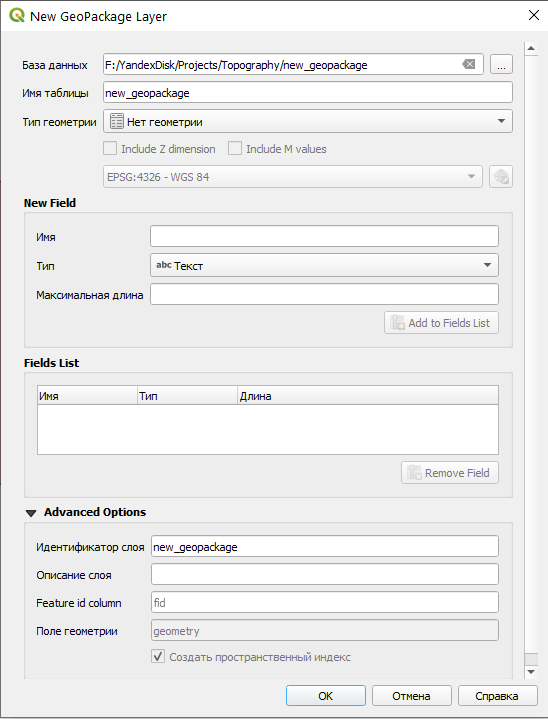
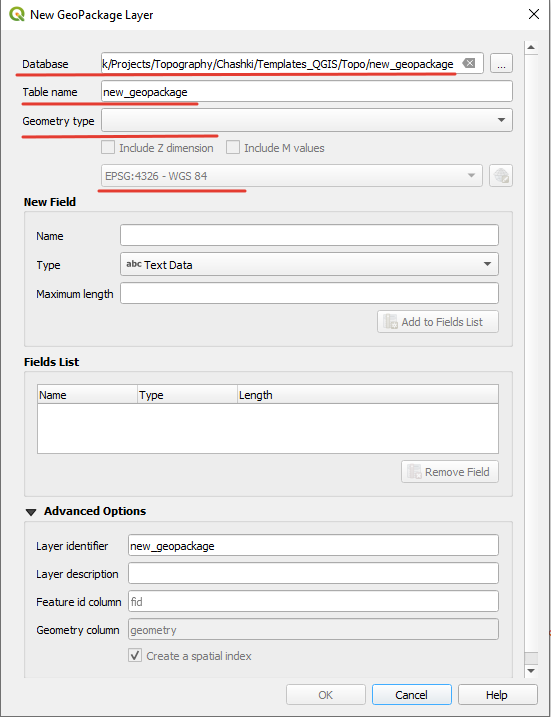
georeference

diff --git a/docs/practice.html b/docs/practice.html
@@ -211,7 +211,7 @@ code span.wa { color: #60a0b0; font-weight: bold; font-style: italic; } /* Warni
 <li class="chapter" data-level="7.3.6" data-path="practice.html"><a href="practice.html#practice-topo-elevation"><i class="fa fa-check"></i><b>7.3.6</b> Обработка высотных данных</a></li>
 <li class="chapter" data-level="7.3.7" data-path="practice.html"><a href="practice.html#practice-topo-layout"><i class="fa fa-check"></i><b>7.3.7</b> Оформление макета</a></li>
 </ul></li>
-<li class="chapter" data-level="7.4" data-path="practice.html"><a href="practice.html#привязка-космического-снимка-по-наземным-опорным-точкам"><i class="fa fa-check"></i><b>7.4</b> Привязка космического снимка по наземным опорным точкам</a></li>
+<li class="chapter" data-level="7.4" data-path="practice.html"><a href="practice.html#practice-georeference"><i class="fa fa-check"></i><b>7.4</b> Привязка космического снимка по наземным опорным точкам</a></li>
 </ul></li>
 <li class="divider"></li>
 <li><a href="https://github.com/rstudio/bookdown" target="blank">Published with bookdown</a></li>
@@ -235,7 +235,7 @@ code span.wa { color: #60a0b0; font-weight: bold; font-style: italic; } /* Warni
             <section class="normal" id="section-">
 <div id="practice" class="section level1">
 <h1><span class="header-section-number">Справка 7</span> Использование QGIS во время полевой топографической практики</h1>
-<p>В этой справке вы найдёте информацию об основных технических приёмах работе в ГИС-пакете QGIS на учебной топографической практике. Для универсализации терминов, названий функций и элементов интерфейса в справке используется англоязычная локализация интерфейса. О том, как менять язык программы, вы можете узнать в <a href="https://iowq750.github.io/Topography/#global" target="_blank">начальном разделе</a></p>
+<p>В этой справке вы найдёте информацию об основных технических приёмах работе в ГИС-пакете QGIS на учебной топографической практике. Для универсализации терминов, названий функций и элементов интерфейса в справке используется англоязычный пользовательский интерфейс. О том, как менять язык программы, вы можете узнать в <a href="https://iowq750.github.io/Topography/#global" target="_blank">начальном разделе</a>.</p>
 <div id="practice-theod" class="section level2">
 <h2><span class="header-section-number">7.1</span> Создание схемы теодолитного хода</h2>
 <div id="practice-theod-template" class="section level3">
@@ -260,7 +260,7 @@ code span.wa { color: #60a0b0; font-weight: bold; font-style: italic; } /* Warni
 <img src="images/Practice/DB_creation.png" alt="" />
 <p class="caption">Окно создания базы данных</p>
 </div>
-<p>Остальные классы объектов вы можете создать, щелкнув правой кнопкой мыши по уже созданной базе данных и выбрав пункт меню <strong>New Table</strong></p>
+<p>Остальные классы объектов вы можете создать, щёлкнув правой кнопкой мыши по уже созданной базе данных и выбрав пункт меню <strong>New Table</strong>.</p>
 <div class="figure">
 <img src="images/Practice/New_table.png" alt="" />
 <p class="caption">Окно создания базы данных</p>
@@ -269,18 +269,18 @@ code span.wa { color: #60a0b0; font-weight: bold; font-style: italic; } /* Warni
 <div id="practice-theod-draw" class="section level3">
 <h3><span class="header-section-number">7.1.3</span> Черчение хода</h3>
 <p><a href="practice.html#practice-theod">В начало справки ⇡</a></p>
-<p>Для нанесение точек хода необходимо добавить в проект из базы данных точечный класс объектов простым перетаскиванием, либо дважды щёлкнув по ним в Браузере. Для редактирования объектов и добавления новых объектов в класс необходимо войти в режим редактирования. Для этого можно щелкнуть правой кнопкой мыши по слою и выбрать пункт <strong>Режим редактирования</strong> (<strong>Toggle Editing</strong>), либо выделить слой и найти на панели инструментов кнопку <img src="images/Vector/Edit.png" />. Активация режима редактирования откроет некоторые другие кнопки на панелях. Например, для точечного класса объекта появится кнопка <img src="images/Practice/New_points.png" />. Нажав на эту кнопку, вы сможете поставить точку в произвольном месте.</p>
+<p>Для нанесение точек хода необходимо добавить в проект из базы данных точечный класс объектов простым перетаскиванием, либо дважды щёлкнув по ним в Браузере. Для редактирования объектов и добавления новых объектов в класс необходимо войти в режим редактирования. Для этого можно щелкнуть правой кнопкой мыши по слою и выбрать пункт <strong>Режим редактирования</strong> (<strong>Toggle Editing</strong>), либо выделить слой и найти на панели инструментов кнопку <img src="images/Practice/Edit.png" />. Активация режима редактирования откроет некоторые другие кнопки на панелях. Например, для точечного класса объекта появится кнопка <img src="images/Practice/New_points.png" />. Нажав на эту кнопку, вы сможете поставить точку в произвольном месте.</p>
 <p>Чтобы поставить точки по строго заданным (рассчитанным при уравнивании теодолитного хода) координатам необходимо использовать панель <strong>Advanced Digitizing Panel</strong>. Если она не открыта, щёлкните правой кнопкой мыши по пустому месту сверху основного окна QGIS и в выпадающем списке отметьте панель и окно.</p>
 <div class="figure">
 <img src="images/Practice/Advanced_digitizing.png" alt="" />
 <p class="caption">Включение дополнительной панели векторизации</p>
 </div>
-<p>Нажмите на кнопку активации инструментов <img src="images/Practice/Enable_Advanced.png" />. Введите координаты <em>X</em> и <em>Y</em>, закрепляя их замком (или нажатием на <strong>Enter</strong>). Щёлкните левой кнопкой мыши по карте – новая точка установится строго по заданным координатам. Сохраните изменения, нажав на иконку сохранения <img src="images/Vector/Save_edits.png" /> на панели редактирования.</p>
+<p>Нажмите на кнопку активации инструментов <img src="images/Practice/Enable_Advanced.png" />. Введите координаты <em>X</em> и <em>Y</em>, закрепляя их замком (или нажатием на <strong>Enter</strong>). Щёлкните левой кнопкой мыши по карте – новая точка установится строго по заданным координатам. Сохраните изменения, нажав на иконку сохранения <img src="images/Practice/Save_edits.png" /> на панели редактирования.</p>
 <div class="figure">
 <img src="images/Practice/Coordinate_input.gif" alt="" />
 <p class="caption">Создание точки по заданным координатам</p>
 </div>
-<p>Для отрисовки сторон хода нужно зайти в режим редактирования соответствующего слоя. При векторизации объектов часто возникает необходимость пристыковать вершины одного объекта к вершинам другого объекта. Для корректной и комфортной пристыковки нужно включить панель Инструментов прилипания (<strong>snapping</strong>). Кнопка в виде магнита <img src="images/Ref04/Snapping.png" /> активирует прилипание. Остальные кнопки на данной панели позволяют уточнить параметры прилипания, в том числе расстояние, на котором оно начинает действовать. Отрисуйте стороны с включенным режимом прилипания, нажимая на левую кнопку мыши для установки вершин и завершая отрисовку правой кнопкой мыши. Сохраните изменения.</p>
+<p>Для отрисовки сторон хода нужно зайти в режим редактирования соответствующего слоя. При векторизации объектов часто возникает необходимость пристыковать вершины одного объекта к вершинам другого объекта. Для корректной и комфортной пристыковки нужно включить панель Инструментов прилипания (<strong>snapping</strong>). Кнопка в виде магнита <img src="images/Practice/Snapping.png" /> активирует прилипание. Остальные кнопки на данной панели позволяют уточнить параметры прилипания, в том числе расстояние, на котором оно начинает действовать. Отрисуйте стороны с включенным режимом прилипания, нажимая на левую кнопку мыши для установки вершин и завершая отрисовку правой кнопкой мыши. Сохраните изменения.</p>
 <blockquote>
 <p>Обратите внимание, что каждая сторона теодолитного хода должна быть отдельным объектом.</p>
 </blockquote>
@@ -295,7 +295,7 @@ code span.wa { color: #60a0b0; font-weight: bold; font-style: italic; } /* Warni
 <h3><span class="header-section-number">7.1.4</span> Настройка символики и подписей</h3>
 <p><a href="practice.html#practice-theod">В начало справки ⇡</a></p>
 <p>На схеме теодолитного хода следует различать точки самого хода и твёрдые точки, которые служат твёрдым направлением. Разная символика обуславливается разными значениями атрибутов данного класса в базе данных. Открыть атрибутивную таблицу слоя можно, нажав правой кнопкой мыши по нему и выбрав пункт <strong>Open Attribute Table</strong>.</p>
-<p>Для редактирования атрибутов необходимо зайти в режим редактирования с помощью кнопки <img src="images/Vector/Edit.png" />. Для добавления или удаления атрибутивных столбцов также необходимо зайтив в режим редактирования, после чего появятся соответствующие кнопки <img src="images/Practice/New_field.png" /> и <img src="images/Practice/Delete_field.png" />. Для того чтобы закодировать отличия точек хода и твердых точек, нужно создать новое атрибутивное поле и записать соответствующим точкам разные значения. Обратите внимание, что каждая строка в атрибутивной таблице – это, по сути, один объект в классе объектов. Выделять объекты в атрибутивной таблицы можно с помощью нажатия левой кнопки мыши по левому краю строки. Для выбора нескольких строк подряд можно «тянуть» выделение левой кнопкой мыши, либо выделить первый и последний объект с зажатым <strong>SHIFT</strong>. Для выбора нескольких отдельных строк зажмите <strong>CTRL</strong>. Выделяемые в атрибутивной таблице объекты будут подсвечиваться жёлтым цветом на карте. Для приближения к выбранному объекту нажмите на кнопку <strong>Pan map to the selected rows</strong> (<strong>Увеличить карту до выделенных строк</strong>) <img src="images/Practice/Zoom_to_selection.png" />.</p>
+<p>Для редактирования атрибутов необходимо зайти в режим редактирования с помощью кнопки <img src="images/Practice/Edit.png" />. Для добавления или удаления атрибутивных столбцов также необходимо зайтив в режим редактирования, после чего появятся соответствующие кнопки <img src="images/Practice/New_field.png" /> и <img src="images/Practice/Delete_field.png" />. Для того чтобы закодировать отличия точек хода и твердых точек, нужно создать новое атрибутивное поле и записать соответствующим точкам разные значения. Обратите внимание, что каждая строка в атрибутивной таблице – это, по сути, один объект в классе объектов. Выделять объекты в атрибутивной таблицы можно с помощью нажатия левой кнопки мыши по левому краю строки. Для выбора нескольких строк подряд можно «тянуть» выделение левой кнопкой мыши, либо выделить первый и последний объект с зажатым <strong>SHIFT</strong>. Для выбора нескольких отдельных строк зажмите <strong>CTRL</strong>. Выделяемые в атрибутивной таблице объекты будут подсвечиваться жёлтым цветом на карте. Для приближения к выбранному объекту нажмите на кнопку <strong>Pan map to the selected rows</strong> (<strong>Увеличить карту до выделенных строк</strong>) <img src="images/Practice/Zoom_to_selection.png" />.</p>
 <p>Для задания символики зайдите в свойства слоя точек, дважды по нему щёлкнув. Перейдите во вкладку <strong>Symbology</strong> (<strong>Стиль</strong>)</p>
 <div class="figure">
 <img src="images/Practice/Point_Symbology.png" alt="" />
@@ -328,7 +328,7 @@ code span.wa { color: #60a0b0; font-weight: bold; font-style: italic; } /* Warni
 <img src="images/Practice/Grid_settings.png" alt="" />
 <p class="caption">Настройка сетки координат</p>
 </div>
-<p>В свойствах сетки выберите вид сетки – <strong>Cross</strong> (<strong>перекрестие</strong>), укажите шаг сетки, цвет линии – зеленый. В разделе <strong>Frame</strong> выберите <strong>interior ticks</strong> для показа выходов сетки внутрь рамки. Длину выходов установить 3 мм.</p>
+<p>В свойствах сетки выберите вид сетки – <strong>Cross</strong> (<strong>перекрестие</strong>), укажите шаг сетки, цвет линии – зеленый. В разделе <strong>Frame</strong> выберите <strong>interior ticks</strong> для показа выходов сетки внутрь рамки. Длину выходов можно установить 3 мм.</p>
 <p>В разделе <strong>Draw Coordinates</strong> сориентируйте боковые подписи выходов сетки вертикально вдоль рамки.</p>
 <div class="figure">
 <img src="images/Practice/Coordinate_appearance.png" alt="" />
@@ -339,7 +339,7 @@ code span.wa { color: #60a0b0; font-weight: bold; font-style: italic; } /* Warni
 <img src="images/Practice/Borders.png" alt="" />
 <p class="caption">Настройка подписей координат</p>
 </div>
-<p>Для экспорта растрового изображения выберите <strong>Layout – Export as …</strong></p>
+<p>Для экспорта растрового изображения выберите <strong>Layout – Export as …</strong>.</p>
 </div>
 </div>
 <div id="создание-схемы-нивелирного-хода" class="section level2">
@@ -353,7 +353,7 @@ code span.wa { color: #60a0b0; font-weight: bold; font-style: italic; } /* Warni
 <div id="practice-level-DB" class="section level3">
 <h3><span class="header-section-number">7.2.2</span> Работа с базой данных</h3>
 <p>Для схемы нивелирного хода следует создать отдельную базу данных, в которой будет два класса объектов:</p>
-<p>● Стороны хода</p>
+<p>● Стороны хода;</p>
 <p>● Точки хода.</p>
 <p>Как создавать базу данных, можно посмотреть в разделе про <a href="practice.html#practice-theod-DB">теодолитный ход</a>.</p>
 </div>
@@ -423,12 +423,9 @@ code span.wa { color: #60a0b0; font-weight: bold; font-style: italic; } /* Warni
 <img src="images/Practice/Create_gpkg.png" alt="" />
 <p class="caption">Окно создания базы данных Geopackage</p>
 </div>
-<p>В поле <strong>Тип геометрии</strong> укажите соответствующую геометрию объектов (тип локализации на плане). Обратите внимание, что каждый класс объектов поддерживает только один тип геометрии.
-Укажите спроецированную систему координат. Если указать геодезическую систему координат, то велика вероятность, что при векторизации объектов возникнут курьёзные ситуации.
-В разделе <strong>New Field</strong> можно указать имя, типа и длину атрибутивного поля создаваемого класса объектов, но, скорее всего, вам это не пригодится.</p>
-<p>Поскольку мы создаем план не небольшую территорию, позволительно будет создать для каждого вида объекта отдельный класс внутри базы.</p>
-<p>Каждый последующий класс объектов создавайте внутри базы данных. Таким образом вы сформируете единое хранилище для всех картографируемых объектов.</p>
-<p><strong>Сохраните проект.</strong></p>
+<p>В поле <strong>Geometry type</strong> укажите соответствующую геометрию объектов (тип локализации на плане): точки, линии или полигоны. Обратите внимание, что каждый класс объектов поддерживает только один тип геометрии. Укажите спроецированную систему координат. Если указать геодезическую систему координат, например <em>WGS 1984</em>, то велика вероятность, что при векторизации объектов возникнут курьёзные ситуации.
+В разделе <strong>New Field</strong> можно указать имя, типа и длину атрибутивного поля создаваемого класса объектов.</p>
+<p>Поскольку мы создаем план не небольшую территорию, позволительно будет создать для каждого вида объекта отдельный класс внутри базы. Каждый последующий класс объектов создавайте внутри базы данных. Таким образом вы сформируете единое хранилище для всех картографируемых объектов.</p>
 </div>
 <div id="practice-topo-vectorization" class="section level3">
 <h3><span class="header-section-number">7.3.3</span> Векторизация</h3>
@@ -441,12 +438,16 @@ code span.wa { color: #60a0b0; font-weight: bold; font-style: italic; } /* Warni
 </div>
 <p>Курсор в таком режиме может вести себя тремя разными способами:</p>
 <ol style="list-style-type: decimal">
-<li><p>При выделении вершины вы можете изменить её положение</p></li>
-<li><p>При выделении ребра вы можете сдвинуть его вместе со смежными вершинами</p></li>
-<li><p>При нажатии на плюсик в центре ребра добавляется новая вершина</p></li>
+<li><p>При выделении вершины вы можете изменить её положение;</p></li>
+<li><p>При выделении ребра вы можете сдвинуть его вместе со смежными вершинами;</p></li>
+<li><p>При нажатии на плюсик в центре ребра добавляется новая вершина.</p></li>
 </ol>
-<p>Нажатие на клавишу <strong>delete</strong> позволяет удалить вершину.
-При векторизации объектов часто возникает необходимость пристыковать вершины одного объекта к вершинам другого объекта. Для корректной и комфортной пристыковки нужно включить панель Инструменты прилипания (<strong>snapping</strong>). Кнопка в виде магнита <img src="images/Practice/Snapping.png" /> активирует прилипание. Остальные кнопки на данной панели позволяют уточнить параметры прилипания, в том числе расстояние, на котором оно начинает действовать.</p>
+<p>Нажатие на клавишу <strong>delete</strong> позволяет удалить вершину. При векторизации объектов часто возникает необходимость пристыковать вершины одного объекта к вершинам другого объекта. Для корректной и комфортной пристыковки нужно включить панель Инструменты прилипания (<strong>snapping</strong>). Кнопка в виде магнита <img src="images/Practice/Snapping.png" /> активирует прилипание. Остальные кнопки на данной панели позволяют уточнить параметры прилипания, в том числе расстояние, на котором оно начинает действовать.</p>
+<p>Если вам необходимо повторить значительную часть существующего контура при создании нового, то удобнее всего воспользоваться трассировкой (<strong>Tracing</strong>), нажав на кнопку <img src="images/Practice/Tracing.png" /> на панели инструментов прилипания. После этого при ведении на небольшом расстоянии от контура новый контур будет автоматически пристыковываться к существующем.</p>
+<div class="figure">
+<img src="images/Practice/Tracing.gif" alt="" />
+<p class="caption">Пример работы с инструментом трассировки</p>
+</div>
 <p><em>Advanced Digitizing Toolbar</em></p>
 <p>Соответствующую панель вы так же, как и предыдущую, можете найти в выпадающем списке панелей.</p>
 <div class="figure">
@@ -495,7 +496,7 @@ code span.wa { color: #60a0b0; font-weight: bold; font-style: italic; } /* Warni
 <p><a href="practice.html#practice-topo">В начало справки ⇡</a></p>
 <div id="practice-topo-tips_tricks-roads" class="section level4">
 <h4><span class="header-section-number">7.3.5.1</span> Создание площадного объекта дороги</h4>
-<p>Обычно дороги отбиваются по осевой линии, если у них известная и постоянная ширина. Чтобы наиболее эффективно и быстро построить площадной знак дороги, можно воспользоваться одним из инструментов геообработки QGIS, который строит буферные зоны. Для этого щёлкните правой кнопкой мыши по пустому полю верхней панели программы, чтобы увидеть список окон и панелей. Выберите панель <strong>Processing Toolbox Panel</strong>. Это панель со всеми инструментами геообработки. Через поисковую строку панели найдите инструмент <strong>Buffer</strong>. Дважды щёлкните по инструменту, после чего откроется окно.</p>
+<p>Обычно дороги при топографической съёмке отбиваются по осевой линии, если у них известная и постоянная ширина. Чтобы наиболее эффективно и быстро построить площадной знак дороги по таким исходным данным, можно воспользоваться одним из инструментов геообработки QGIS, который строит буферные зоны. Для этого щёлкните правой кнопкой мыши по пустому полю верхней панели программы, чтобы увидеть список окон и панелей. Выберите панель <strong>Processing Toolbox Panel</strong>. Это панель со всеми инструментами геообработки. Через поисковую строку панели найдите инструмент <strong>Buffer</strong>. Дважды щёлкните по инструменту, после чего откроется окно.</p>
 <div class="figure">
 <img src="images/Practice/Buffer.png" alt="" />
 <p class="caption">Интерфейс инструмента построения буфера</p>
@@ -541,7 +542,7 @@ code span.wa { color: #60a0b0; font-weight: bold; font-style: italic; } /* Warni
 <img src="images/Practice/Contours_Labels.png" alt="" />
 <p class="caption">Настройка подписей горизонталей</p>
 </div>
-<p>В разделе <strong>Text</strong> можно указать гарнитуру, кегль. В разделе <strong>Buffer</strong> можно включить т.н. гало, т. е. обводку вокруг символов, которая закрывает собой горизонтали. В разделе <strong>Placement</strong> в свойстве <strong>Mode</strong> указывается <strong>Curved</strong>, т. е. подпись по кривой, а также включается размещение <strong>on line</strong>, чтобы подпись была на горизонтали.</p>
+<p>В разделе <strong>Text</strong> можно указать гарнитуру, кегль. В разделе <strong>Buffer</strong> можно включить т.н. гало, т. е. обводку вокруг символов, которая закрывает собой горизонтали. В разделе <strong>Placement</strong> в свойстве <strong>Mode</strong> указывается <strong>Curved</strong>, т. е. подпись по кривой, а также включается размещение <strong>on line</strong>, чтобы подпись лежала на горизонтали.</p>
 </div>
 <div id="practice-topo-layout" class="section level3">
 <h3><span class="header-section-number">7.3.7</span> Оформление макета</h3>
@@ -555,8 +556,37 @@ code span.wa { color: #60a0b0; font-weight: bold; font-style: italic; } /* Warni
 <p>Рамка топографической карты состоит из внутренней тонкой и внешней толстой рамки. Обе рамки можно по отдельности добавить в свойствах элемента.</p>
 </div>
 </div>
-<div id="привязка-космического-снимка-по-наземным-опорным-точкам" class="section level2">
+<div id="practice-georeference" class="section level2">
 <h2><span class="header-section-number">7.4</span> Привязка космического снимка по наземным опорным точкам</h2>
+<p><a href="practice.html#practice">В начало справки ⇡</a></p>
+<p>Добавьте снимок в проект, нажав на кнопку <img src="images/Practice/Open_raster.png" />. Поскольку добавленный снимок на данный момент не привязан, справа от слоя в таблице слоёв вы увидите знак вопроса.</p>
+<blockquote>
+<p>Если вы не видите снимок, то, вероятно, он расположился где-то за пределами вашего экрана. Чтобы увидеть его, нажмите правой кнопкой мыши по слою и выберете <strong>Zoom to Layer</strong> (<strong>Увеличить до слоя</strong>). Обратите внимание на значения координат и масштаб внизу окна. Что они могут означать?</p>
+</blockquote>
+<p>Запустите модуль привязки через меню <strong>Raster – Georeferencer</strong> (<strong>Растр – Привязка растров…</strong>).</p>
+<div class="figure">
+<img src="images/Practice/Georeferencer.png" alt="" />
+<p class="caption">Открытие растрового файла</p>
+</div>
+<blockquote>
+<p>Если вы не видите такого пункта меню, то зайдите в <strong>Plugins – Manage and Install plugins…</strong> (<strong>Установки – Модули и управление модулями</strong>, найдите через поиск и включите соответствующий модуль, поставив галочку (с версии 3.16 этот модуль по умолчанию встроен в QGIS).</p>
+</blockquote>
+<p>Откроется отдельное окно привязки. Нажмите на кнопку <strong>Открыть растр</strong> <img src="images/Practice/Open_raster.png" />, добавьте привязываемый растр. Щелчок левой кнопкой мыши по привязываемому изображению в месте потенциального размещения опорной точки откроет окно, куда будет предложено ввести координаты. При использовании наземных опорных точек, которые добавлены в ваш проект, вы можете нажать на кнопку <strong>From Map Canvas</strong> и выбрать соответственную точку.</p>
+<div class="figure">
+<img src="images/Practice/Enter_Coordinates.png" alt="" />
+<p class="caption">Окно ввода координат</p>
+</div>
+<blockquote>
+<p>Обратите внимание, что оси X и Y в геоинформационном программном обеспечении ориентированы как в математике. Для координаты X вводить номер зоны <strong>не нужно</strong>.</p>
+</blockquote>
+<p>После расстановки точек внизу окна появится таблица с вашими точками привязки – будут указаны координаты этих точек в исходной СК изображения и в целевой СК, а также невязки. Далее необходимо указать способ трансформации для расчёта невязок. Нажмите на кнопку <img src="images/Practice/Transformation_settings.png" />. В качестве типа трансформации для снимка может подойти полиномиальное преобразование первой степени или проективное преобразование. Укажите целевую систему координат (в которой вводились координаты точек), а также путь для сохраняемого файла.</p>
+<blockquote>
+<p>Сохраняйте файлы в папку с путями без латиницы, пробелов и спецсимволов.</p>
+</blockquote>
+<div class="figure">
+<img src="images/Practice/Transformation_parameters.png" alt="" />
+<p class="caption">Параметры трансформации</p>
+</div>
 <table>
 <tbody>
 <tr class="odd">

diff --git a/docs/coordinates.html b/docs/coordinates.html
@@ -211,7 +211,7 @@ code span.wa { color: #60a0b0; font-weight: bold; font-style: italic; } /* Warni
 <li class="chapter" data-level="7.3.6" data-path="practice.html"><a href="practice.html#practice-topo-elevation"><i class="fa fa-check"></i><b>7.3.6</b> Обработка высотных данных</a></li>
 <li class="chapter" data-level="7.3.7" data-path="practice.html"><a href="practice.html#practice-topo-layout"><i class="fa fa-check"></i><b>7.3.7</b> Оформление макета</a></li>
 </ul></li>
-<li class="chapter" data-level="7.4" data-path="practice.html"><a href="practice.html#привязка-космического-снимка-по-наземным-опорным-точкам"><i class="fa fa-check"></i><b>7.4</b> Привязка космического снимка по наземным опорным точкам</a></li>
+<li class="chapter" data-level="7.4" data-path="practice.html"><a href="practice.html#practice-georeference"><i class="fa fa-check"></i><b>7.4</b> Привязка космического снимка по наземным опорным точкам</a></li>
 </ul></li>
 <li class="divider"></li>
 <li><a href="https://github.com/rstudio/bookdown" target="blank">Published with bookdown</a></li>
@@ -272,7 +272,7 @@ code span.wa { color: #60a0b0; font-weight: bold; font-style: italic; } /* Warni
 <div class="sourceCode" id="cb5"><pre class="sourceCode r"><code class="sourceCode r"><span id="cb5-1"><a href="coordinates.html#cb5-1"></a>df &lt;-<span class="st"> </span><span class="kw">data.frame</span>(<span class="dt">x =</span> <span class="dv">1</span><span class="op">:</span><span class="dv">10</span>, <span class="dt">y =</span> <span class="dv">11</span><span class="op">:</span><span class="dv">20</span>)</span>
 <span id="cb5-2"><a href="coordinates.html#cb5-2"></a>df <span class="op">%&gt;%</span><span class="st"> </span><span class="kw">regulartable</span>() <span class="op">%&gt;%</span><span class="st"> </span><span class="kw">autofit</span>() <span class="op">%&gt;%</span><span class="st"> </span></span>
 <span id="cb5-3"><a href="coordinates.html#cb5-3"></a><span class="kw">width</span>(<span class="dt">j=</span><span class="op">~</span>x,<span class="dt">width=</span><span class="dv">1</span>) <span class="op">%&gt;%</span><span class="st"> </span><span class="kw">width</span>(<span class="dt">j=</span><span class="op">~</span>y,<span class="dt">width=</span><span class="dv">1</span>)</span></code></pre></div>
-<template id="2919f337-3e5c-4b15-b779-22b8cc1b006c"><style>
+<template id="a6b6423e-dd87-425a-9b35-75ae576df625"><style>
 .tabwid table{
   border-spacing:0px !important;
   border-collapse:collapse;
@@ -306,12 +306,12 @@ code span.wa { color: #60a0b0; font-weight: bold; font-style: italic; } /* Warni
 .tabwid table tr {
 background-color: transparent;
 }
-</style><div class="tabwid"><style>.cl-41466c3a{}.cl-41210f62{font-family:'Arial';font-size:11pt;font-weight:normal;font-style:normal;text-decoration:none;color:rgba(0, 0, 0, 1.00);background-color:transparent;}.cl-41213668{margin:0;text-align:right;border-bottom: 0 solid rgba(0, 0, 0, 1.00);border-top: 0 solid rgba(0, 0, 0, 1.00);border-left: 0 solid rgba(0, 0, 0, 1.00);border-right: 0 solid rgba(0, 0, 0, 1.00);padding-bottom:5pt;padding-top:5pt;padding-left:5pt;padding-right:5pt;line-height: 1;background-color:transparent;}.cl-412247b0{width:72pt;background-color:transparent;vertical-align: middle;border-bottom: 0 solid rgba(0, 0, 0, 1.00);border-top: 0 solid rgba(0, 0, 0, 1.00);border-left: 0 solid rgba(0, 0, 0, 1.00);border-right: 0 solid rgba(0, 0, 0, 1.00);margin-bottom:0;margin-top:0;margin-left:0;margin-right:0;}.cl-412247b1{width:72pt;background-color:transparent;vertical-align: middle;border-bottom: 2pt solid rgba(102, 102, 102, 1.00);border-top: 0 solid rgba(0, 0, 0, 1.00);border-left: 0 solid rgba(0, 0, 0, 1.00);border-right: 0 solid rgba(0, 0, 0, 1.00);margin-bottom:0;margin-top:0;margin-left:0;margin-right:0;}.cl-412247b2{width:72pt;background-color:transparent;vertical-align: middle;border-bottom: 0 solid rgba(0, 0, 0, 1.00);border-top: 0 solid rgba(0, 0, 0, 1.00);border-left: 0 solid rgba(0, 0, 0, 1.00);border-right: 0 solid rgba(0, 0, 0, 1.00);margin-bottom:0;margin-top:0;margin-left:0;margin-right:0;}.cl-412247b3{width:72pt;background-color:transparent;vertical-align: middle;border-bottom: 0 solid rgba(0, 0, 0, 1.00);border-top: 0 solid rgba(0, 0, 0, 1.00);border-left: 0 solid rgba(0, 0, 0, 1.00);border-right: 0 solid rgba(0, 0, 0, 1.00);margin-bottom:0;margin-top:0;margin-left:0;margin-right:0;}.cl-412247b4{width:72pt;background-color:transparent;vertical-align: middle;border-bottom: 2pt solid rgba(102, 102, 102, 1.00);border-top: 2pt solid rgba(102, 102, 102, 1.00);border-left: 0 solid rgba(0, 0, 0, 1.00);border-right: 0 solid rgba(0, 0, 0, 1.00);margin-bottom:0;margin-top:0;margin-left:0;margin-right:0;}</style><table class='cl-41466c3a'>
-<thead><tr style="overflow-wrap:break-word;"><td class="cl-412247b4"><p class="cl-41213668"><span class="cl-41210f62">x</span></p></td><td class="cl-412247b4"><p class="cl-41213668"><span class="cl-41210f62">y</span></p></td></tr></thead><tbody><tr style="overflow-wrap:break-word;"><td class="cl-412247b0"><p class="cl-41213668"><span class="cl-41210f62">1</span></p></td><td class="cl-412247b0"><p class="cl-41213668"><span class="cl-41210f62">11</span></p></td></tr><tr style="overflow-wrap:break-word;"><td class="cl-412247b0"><p class="cl-41213668"><span class="cl-41210f62">2</span></p></td><td class="cl-412247b0"><p class="cl-41213668"><span class="cl-41210f62">12</span></p></td></tr><tr style="overflow-wrap:break-word;"><td class="cl-412247b2"><p class="cl-41213668"><span class="cl-41210f62">3</span></p></td><td class="cl-412247b2"><p class="cl-41213668"><span class="cl-41210f62">13</span></p></td></tr><tr style="overflow-wrap:break-word;"><td class="cl-412247b0"><p class="cl-41213668"><span class="cl-41210f62">4</span></p></td><td class="cl-412247b0"><p class="cl-41213668"><span class="cl-41210f62">14</span></p></td></tr><tr style="overflow-wrap:break-word;"><td class="cl-412247b3"><p class="cl-41213668"><span class="cl-41210f62">5</span></p></td><td class="cl-412247b3"><p class="cl-41213668"><span class="cl-41210f62">15</span></p></td></tr><tr style="overflow-wrap:break-word;"><td class="cl-412247b3"><p class="cl-41213668"><span class="cl-41210f62">6</span></p></td><td class="cl-412247b3"><p class="cl-41213668"><span class="cl-41210f62">16</span></p></td></tr><tr style="overflow-wrap:break-word;"><td class="cl-412247b0"><p class="cl-41213668"><span class="cl-41210f62">7</span></p></td><td class="cl-412247b0"><p class="cl-41213668"><span class="cl-41210f62">17</span></p></td></tr><tr style="overflow-wrap:break-word;"><td class="cl-412247b3"><p class="cl-41213668"><span class="cl-41210f62">8</span></p></td><td class="cl-412247b3"><p class="cl-41213668"><span class="cl-41210f62">18</span></p></td></tr><tr style="overflow-wrap:break-word;"><td class="cl-412247b3"><p class="cl-41213668"><span class="cl-41210f62">9</span></p></td><td class="cl-412247b3"><p class="cl-41213668"><span class="cl-41210f62">19</span></p></td></tr><tr style="overflow-wrap:break-word;"><td class="cl-412247b1"><p class="cl-41213668"><span class="cl-41210f62">10</span></p></td><td class="cl-412247b1"><p class="cl-41213668"><span class="cl-41210f62">20</span></p></td></tr></tbody></table></div></template>
-<div class="flextable-shadow-host" id="56c162e2-266a-4dbb-9799-db599e23767e"></div>
+</style><div class="tabwid"><style>.cl-4212a44c{}.cl-41eea6d2{font-family:'Arial';font-size:11pt;font-weight:normal;font-style:normal;text-decoration:none;color:rgba(0, 0, 0, 1.00);background-color:transparent;}.cl-41ef1bee{margin:0;text-align:right;border-bottom: 0 solid rgba(0, 0, 0, 1.00);border-top: 0 solid rgba(0, 0, 0, 1.00);border-left: 0 solid rgba(0, 0, 0, 1.00);border-right: 0 solid rgba(0, 0, 0, 1.00);padding-bottom:5pt;padding-top:5pt;padding-left:5pt;padding-right:5pt;line-height: 1;background-color:transparent;}.cl-41f00630{width:72pt;background-color:transparent;vertical-align: middle;border-bottom: 0 solid rgba(0, 0, 0, 1.00);border-top: 0 solid rgba(0, 0, 0, 1.00);border-left: 0 solid rgba(0, 0, 0, 1.00);border-right: 0 solid rgba(0, 0, 0, 1.00);margin-bottom:0;margin-top:0;margin-left:0;margin-right:0;}.cl-41f00631{width:72pt;background-color:transparent;vertical-align: middle;border-bottom: 2pt solid rgba(102, 102, 102, 1.00);border-top: 0 solid rgba(0, 0, 0, 1.00);border-left: 0 solid rgba(0, 0, 0, 1.00);border-right: 0 solid rgba(0, 0, 0, 1.00);margin-bottom:0;margin-top:0;margin-left:0;margin-right:0;}.cl-41f00632{width:72pt;background-color:transparent;vertical-align: middle;border-bottom: 0 solid rgba(0, 0, 0, 1.00);border-top: 0 solid rgba(0, 0, 0, 1.00);border-left: 0 solid rgba(0, 0, 0, 1.00);border-right: 0 solid rgba(0, 0, 0, 1.00);margin-bottom:0;margin-top:0;margin-left:0;margin-right:0;}.cl-41f00633{width:72pt;background-color:transparent;vertical-align: middle;border-bottom: 0 solid rgba(0, 0, 0, 1.00);border-top: 0 solid rgba(0, 0, 0, 1.00);border-left: 0 solid rgba(0, 0, 0, 1.00);border-right: 0 solid rgba(0, 0, 0, 1.00);margin-bottom:0;margin-top:0;margin-left:0;margin-right:0;}.cl-41f00634{width:72pt;background-color:transparent;vertical-align: middle;border-bottom: 2pt solid rgba(102, 102, 102, 1.00);border-top: 2pt solid rgba(102, 102, 102, 1.00);border-left: 0 solid rgba(0, 0, 0, 1.00);border-right: 0 solid rgba(0, 0, 0, 1.00);margin-bottom:0;margin-top:0;margin-left:0;margin-right:0;}</style><table class='cl-4212a44c'>
+<thead><tr style="overflow-wrap:break-word;"><td class="cl-41f00634"><p class="cl-41ef1bee"><span class="cl-41eea6d2">x</span></p></td><td class="cl-41f00634"><p class="cl-41ef1bee"><span class="cl-41eea6d2">y</span></p></td></tr></thead><tbody><tr style="overflow-wrap:break-word;"><td class="cl-41f00630"><p class="cl-41ef1bee"><span class="cl-41eea6d2">1</span></p></td><td class="cl-41f00630"><p class="cl-41ef1bee"><span class="cl-41eea6d2">11</span></p></td></tr><tr style="overflow-wrap:break-word;"><td class="cl-41f00630"><p class="cl-41ef1bee"><span class="cl-41eea6d2">2</span></p></td><td class="cl-41f00630"><p class="cl-41ef1bee"><span class="cl-41eea6d2">12</span></p></td></tr><tr style="overflow-wrap:break-word;"><td class="cl-41f00632"><p class="cl-41ef1bee"><span class="cl-41eea6d2">3</span></p></td><td class="cl-41f00632"><p class="cl-41ef1bee"><span class="cl-41eea6d2">13</span></p></td></tr><tr style="overflow-wrap:break-word;"><td class="cl-41f00630"><p class="cl-41ef1bee"><span class="cl-41eea6d2">4</span></p></td><td class="cl-41f00630"><p class="cl-41ef1bee"><span class="cl-41eea6d2">14</span></p></td></tr><tr style="overflow-wrap:break-word;"><td class="cl-41f00633"><p class="cl-41ef1bee"><span class="cl-41eea6d2">5</span></p></td><td class="cl-41f00633"><p class="cl-41ef1bee"><span class="cl-41eea6d2">15</span></p></td></tr><tr style="overflow-wrap:break-word;"><td class="cl-41f00633"><p class="cl-41ef1bee"><span class="cl-41eea6d2">6</span></p></td><td class="cl-41f00633"><p class="cl-41ef1bee"><span class="cl-41eea6d2">16</span></p></td></tr><tr style="overflow-wrap:break-word;"><td class="cl-41f00630"><p class="cl-41ef1bee"><span class="cl-41eea6d2">7</span></p></td><td class="cl-41f00630"><p class="cl-41ef1bee"><span class="cl-41eea6d2">17</span></p></td></tr><tr style="overflow-wrap:break-word;"><td class="cl-41f00633"><p class="cl-41ef1bee"><span class="cl-41eea6d2">8</span></p></td><td class="cl-41f00633"><p class="cl-41ef1bee"><span class="cl-41eea6d2">18</span></p></td></tr><tr style="overflow-wrap:break-word;"><td class="cl-41f00633"><p class="cl-41ef1bee"><span class="cl-41eea6d2">9</span></p></td><td class="cl-41f00633"><p class="cl-41ef1bee"><span class="cl-41eea6d2">19</span></p></td></tr><tr style="overflow-wrap:break-word;"><td class="cl-41f00631"><p class="cl-41ef1bee"><span class="cl-41eea6d2">10</span></p></td><td class="cl-41f00631"><p class="cl-41ef1bee"><span class="cl-41eea6d2">20</span></p></td></tr></tbody></table></div></template>
+<div class="flextable-shadow-host" id="2edb625b-e457-4c2c-918f-48d0e06b8832"></div>
 <script>
-var dest = document.getElementById("56c162e2-266a-4dbb-9799-db599e23767e");
-var template = document.getElementById("2919f337-3e5c-4b15-b779-22b8cc1b006c");
+var dest = document.getElementById("2edb625b-e457-4c2c-918f-48d0e06b8832");
+var template = document.getElementById("a6b6423e-dd87-425a-9b35-75ae576df625");
 var caption = template.content.querySelector("caption");
 if(caption) {
   caption.style.cssText = "display:block;text-align:center;";

diff --git a/docs/404.html b/docs/404.html
@@ -211,7 +211,7 @@ code span.wa { color: #60a0b0; font-weight: bold; font-style: italic; } /* Warni
 <li class="chapter" data-level="7.3.6" data-path="practice.html"><a href="practice.html#practice-topo-elevation"><i class="fa fa-check"></i><b>7.3.6</b> Обработка высотных данных</a></li>
 <li class="chapter" data-level="7.3.7" data-path="practice.html"><a href="practice.html#practice-topo-layout"><i class="fa fa-check"></i><b>7.3.7</b> Оформление макета</a></li>
 </ul></li>
-<li class="chapter" data-level="7.4" data-path="practice.html"><a href="practice.html#привязка-космического-снимка-по-наземным-опорным-точкам"><i class="fa fa-check"></i><b>7.4</b> Привязка космического снимка по наземным опорным точкам</a></li>
+<li class="chapter" data-level="7.4" data-path="practice.html"><a href="practice.html#practice-georeference"><i class="fa fa-check"></i><b>7.4</b> Привязка космического снимка по наземным опорным точкам</a></li>
 </ul></li>
 <li class="divider"></li>
 <li><a href="https://github.com/rstudio/bookdown" target="blank">Published with bookdown</a></li>

diff --git a/docs/digitize.html b/docs/digitize.html
@@ -211,7 +211,7 @@ code span.wa { color: #60a0b0; font-weight: bold; font-style: italic; } /* Warni
 <li class="chapter" data-level="7.3.6" data-path="practice.html"><a href="practice.html#practice-topo-elevation"><i class="fa fa-check"></i><b>7.3.6</b> Обработка высотных данных</a></li>
 <li class="chapter" data-level="7.3.7" data-path="practice.html"><a href="practice.html#practice-topo-layout"><i class="fa fa-check"></i><b>7.3.7</b> Оформление макета</a></li>
 </ul></li>
-<li class="chapter" data-level="7.4" data-path="practice.html"><a href="practice.html#привязка-космического-снимка-по-наземным-опорным-точкам"><i class="fa fa-check"></i><b>7.4</b> Привязка космического снимка по наземным опорным точкам</a></li>
+<li class="chapter" data-level="7.4" data-path="practice.html"><a href="practice.html#practice-georeference"><i class="fa fa-check"></i><b>7.4</b> Привязка космического снимка по наземным опорным точкам</a></li>
 </ul></li>
 <li class="divider"></li>
 <li><a href="https://github.com/rstudio/bookdown" target="blank">Published with bookdown</a></li>

diff --git a/docs/georeference.html b/docs/georeference.html
@@ -211,7 +211,7 @@ code span.wa { color: #60a0b0; font-weight: bold; font-style: italic; } /* Warni
 <li class="chapter" data-level="7.3.6" data-path="practice.html"><a href="practice.html#practice-topo-elevation"><i class="fa fa-check"></i><b>7.3.6</b> Обработка высотных данных</a></li>
 <li class="chapter" data-level="7.3.7" data-path="practice.html"><a href="practice.html#practice-topo-layout"><i class="fa fa-check"></i><b>7.3.7</b> Оформление макета</a></li>
 </ul></li>
-<li class="chapter" data-level="7.4" data-path="practice.html"><a href="practice.html#привязка-космического-снимка-по-наземным-опорным-точкам"><i class="fa fa-check"></i><b>7.4</b> Привязка космического снимка по наземным опорным точкам</a></li>
+<li class="chapter" data-level="7.4" data-path="practice.html"><a href="practice.html#practice-georeference"><i class="fa fa-check"></i><b>7.4</b> Привязка космического снимка по наземным опорным точкам</a></li>
 </ul></li>
 <li class="divider"></li>
 <li><a href="https://github.com/rstudio/bookdown" target="blank">Published with bookdown</a></li>

diff --git a/docs/index.html b/docs/index.html
@@ -211,7 +211,7 @@ code span.wa { color: #60a0b0; font-weight: bold; font-style: italic; } /* Warni
 <li class="chapter" data-level="7.3.6" data-path="practice.html"><a href="practice.html#practice-topo-elevation"><i class="fa fa-check"></i><b>7.3.6</b> Обработка высотных данных</a></li>
 <li class="chapter" data-level="7.3.7" data-path="practice.html"><a href="practice.html#practice-topo-layout"><i class="fa fa-check"></i><b>7.3.7</b> Оформление макета</a></li>
 </ul></li>
-<li class="chapter" data-level="7.4" data-path="practice.html"><a href="practice.html#привязка-космического-снимка-по-наземным-опорным-точкам"><i class="fa fa-check"></i><b>7.4</b> Привязка космического снимка по наземным опорным точкам</a></li>
+<li class="chapter" data-level="7.4" data-path="practice.html"><a href="practice.html#practice-georeference"><i class="fa fa-check"></i><b>7.4</b> Привязка космического снимка по наземным опорным точкам</a></li>
 </ul></li>
 <li class="divider"></li>
 <li><a href="https://github.com/rstudio/bookdown" target="blank">Published with bookdown</a></li>

diff --git a/docs/interpretation.html b/docs/interpretation.html
@@ -211,7 +211,7 @@ code span.wa { color: #60a0b0; font-weight: bold; font-style: italic; } /* Warni
 <li class="chapter" data-level="7.3.6" data-path="practice.html"><a href="practice.html#practice-topo-elevation"><i class="fa fa-check"></i><b>7.3.6</b> Обработка высотных данных</a></li>
 <li class="chapter" data-level="7.3.7" data-path="practice.html"><a href="practice.html#practice-topo-layout"><i class="fa fa-check"></i><b>7.3.7</b> Оформление макета</a></li>
 </ul></li>
-<li class="chapter" data-level="7.4" data-path="practice.html"><a href="practice.html#привязка-космического-снимка-по-наземным-опорным-точкам"><i class="fa fa-check"></i><b>7.4</b> Привязка космического снимка по наземным опорным точкам</a></li>
+<li class="chapter" data-level="7.4" data-path="practice.html"><a href="practice.html#practice-georeference"><i class="fa fa-check"></i><b>7.4</b> Привязка космического снимка по наземным опорным точкам</a></li>
 </ul></li>
 <li class="divider"></li>
 <li><a href="https://github.com/rstudio/bookdown" target="blank">Published with bookdown</a></li>

diff --git a/docs/stereo.html b/docs/stereo.html
@@ -211,7 +211,7 @@ code span.wa { color: #60a0b0; font-weight: bold; font-style: italic; } /* Warni
 <li class="chapter" data-level="7.3.6" data-path="practice.html"><a href="practice.html#practice-topo-elevation"><i class="fa fa-check"></i><b>7.3.6</b> Обработка высотных данных</a></li>
 <li class="chapter" data-level="7.3.7" data-path="practice.html"><a href="practice.html#practice-topo-layout"><i class="fa fa-check"></i><b>7.3.7</b> Оформление макета</a></li>
 </ul></li>
-<li class="chapter" data-level="7.4" data-path="practice.html"><a href="practice.html#привязка-космического-снимка-по-наземным-опорным-точкам"><i class="fa fa-check"></i><b>7.4</b> Привязка космического снимка по наземным опорным точкам</a></li>
+<li class="chapter" data-level="7.4" data-path="practice.html"><a href="practice.html#practice-georeference"><i class="fa fa-check"></i><b>7.4</b> Привязка космического снимка по наземным опорным точкам</a></li>
 </ul></li>
 <li class="divider"></li>
 <li><a href="https://github.com/rstudio/bookdown" target="blank">Published with bookdown</a></li>

diff --git a/docs/symbols.html b/docs/symbols.html
@@ -211,7 +211,7 @@ code span.wa { color: #60a0b0; font-weight: bold; font-style: italic; } /* Warni
 <li class="chapter" data-level="7.3.6" data-path="practice.html"><a href="practice.html#practice-topo-elevation"><i class="fa fa-check"></i><b>7.3.6</b> Обработка высотных данных</a></li>
 <li class="chapter" data-level="7.3.7" data-path="practice.html"><a href="practice.html#practice-topo-layout"><i class="fa fa-check"></i><b>7.3.7</b> Оформление макета</a></li>
 </ul></li>
-<li class="chapter" data-level="7.4" data-path="practice.html"><a href="practice.html#привязка-космического-снимка-по-наземным-опорным-точкам"><i class="fa fa-check"></i><b>7.4</b> Привязка космического снимка по наземным опорным точкам</a></li>
+<li class="chapter" data-level="7.4" data-path="practice.html"><a href="practice.html#practice-georeference"><i class="fa fa-check"></i><b>7.4</b> Привязка космического снимка по наземным опорным точкам</a></li>
 </ul></li>
 <li class="divider"></li>
 <li><a href="https://github.com/rstudio/bookdown" target="blank">Published with bookdown</a></li>
